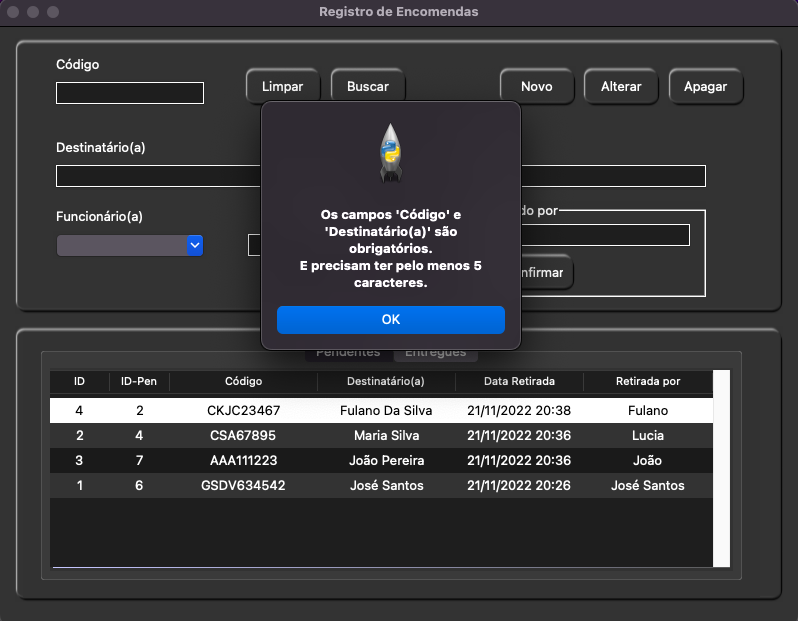
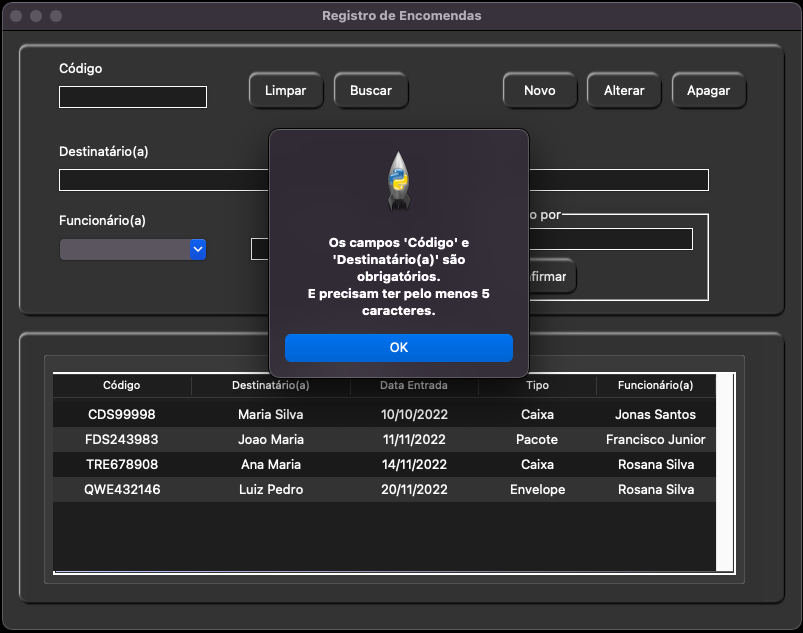
Update table

diff --git a/registro_encomendas/features.py b/registro_encomendas/features.py
@@ -1,4 +1,4 @@
-from modulos import *
+from modules import *
 
 
 class Funcs:
@@ -18,8 +18,8 @@ class Funcs:
         self.conn = mysql.connector.connect(
                                             host='localhost',
                                             user='root',       # Configurações padrão
-                                            password='<sua_senha>',
-                                            database='<nome_do_seu_banco_de_dados>')
+                                            password='55335904WIFI',
+                                            database='historico_encomendas')
         self.cursor = self.conn.cursor()
         print('Conectando ao banco de dados')
 
@@ -242,11 +242,11 @@ class Funcs:
             if i[6] is not None:
                 if count % 2 == 0:
                     self.listaEntregues.insert(
-                        '', END, values=[i[0], i[1], i[5], i[6]], iid=count, tag=('evenrow',)
+                        '', END, values=[i[1], i[5], i[6], i[0]], iid=count, tag=('evenrow',)
                     )
                 else:
                     self.listaEntregues.insert(
-                        '', END, values=[i[0], i[1], i[5], i[6]], iid=count, tag=('oddrow',)
+                        '', END, values=[i[1], i[5], i[6], i[0]], iid=count, tag=('oddrow',)
                     )
                 count += 1
 

diff --git a/registro_encomendas/main.py b/registro_encomendas/main.py
@@ -1,7 +1,7 @@
 from entriesValidators import Validators
 from frameGrad import GradientFrame
-from funcionalidades import Funcs
-from modulos import *
+from features import Funcs
+from modules import *
 from reports import Relatorios
 
 root = Tk()

diff --git a/registro_encomendas/frameGrad.py b/registro_encomendas/frameGrad.py
@@ -1,4 +1,4 @@
-from registro_encomendas.modulos import *
+from registro_encomendas.modules import *
 
 
 class GradientFrame(Canvas):

diff --git a/registro_encomendas/reports.py b/registro_encomendas/reports.py
@@ -1,4 +1,4 @@
-from modulos import *
+from modules import *
 
 
 class Relatorios:
